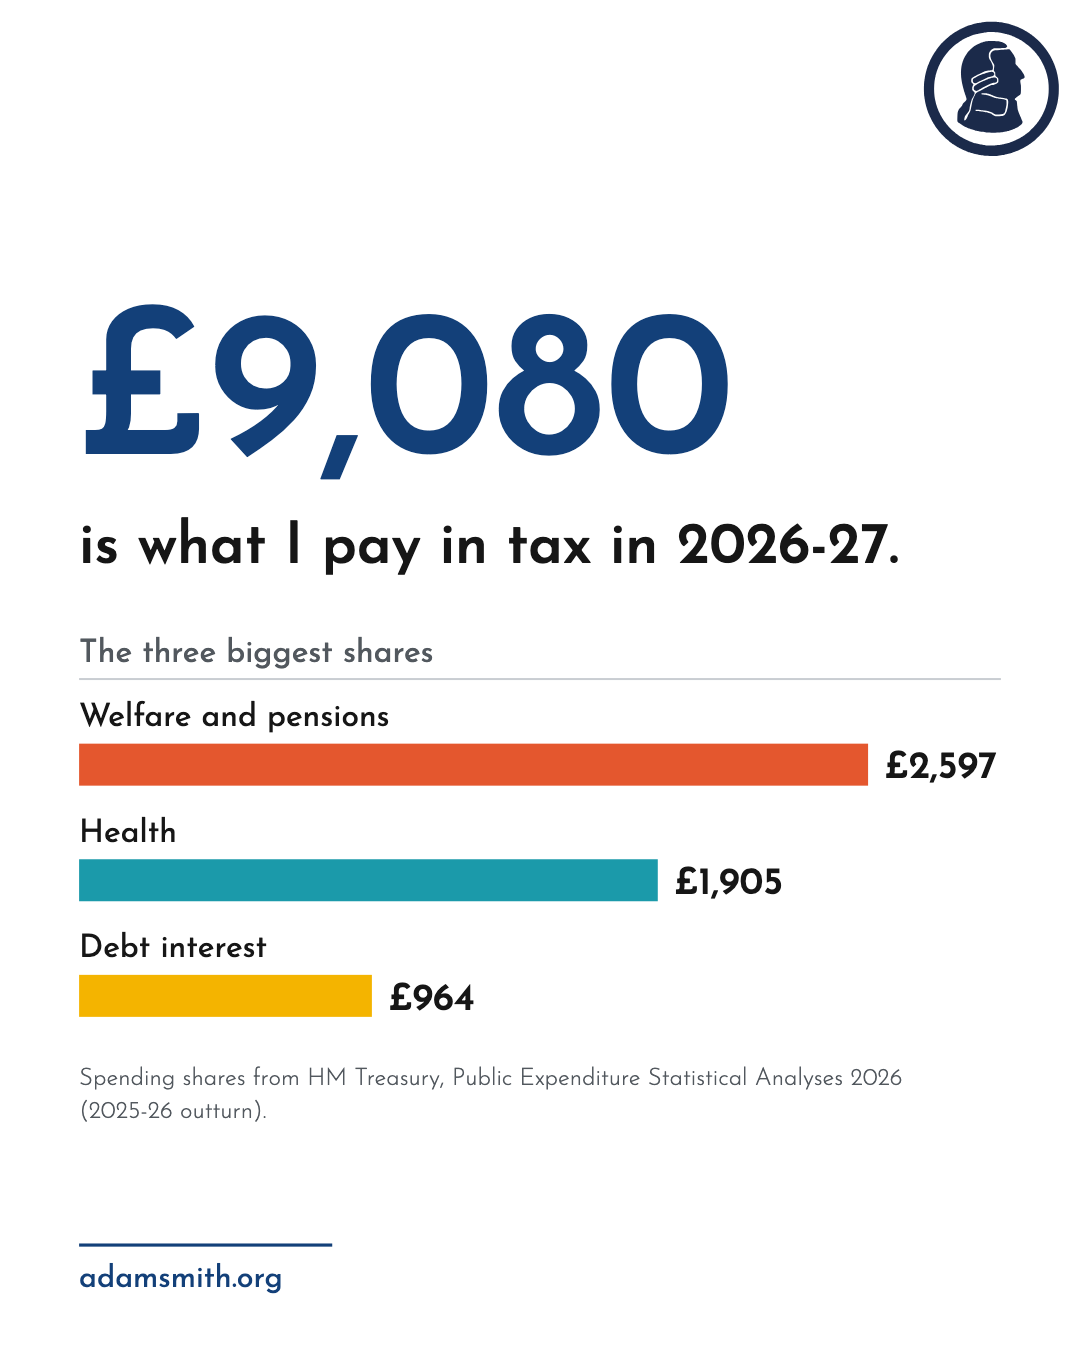
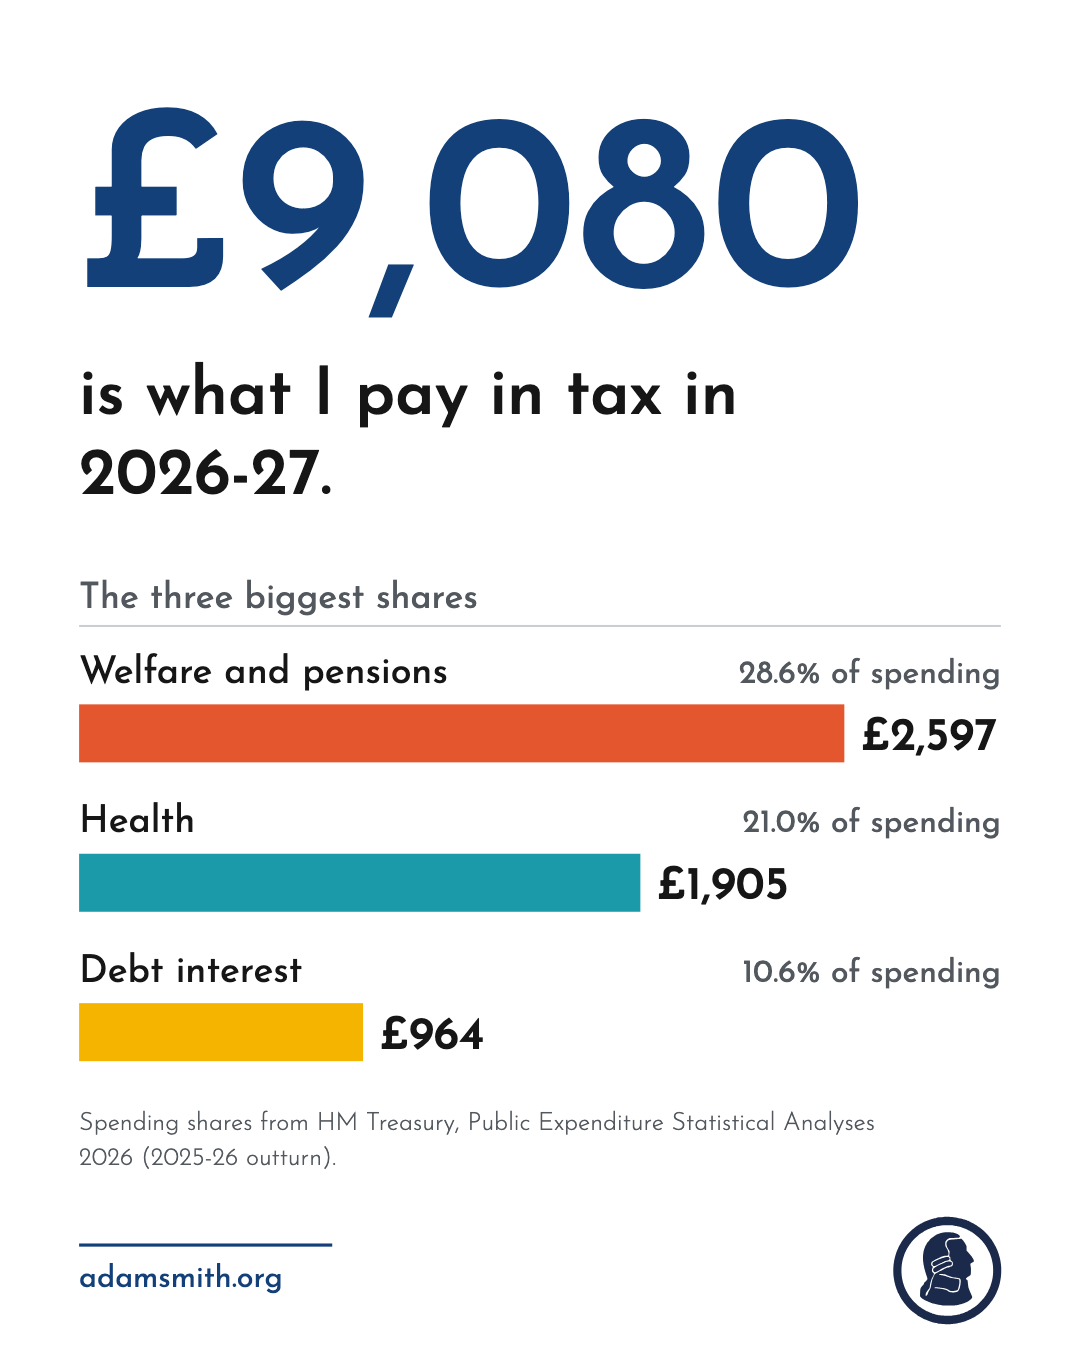
Share image: shares of total spending; mark moved to the footer
Each of the three bars now shows that area's share of all spending (for
example "28.6% of spending"). The roundel moves from the top right to the
bottom-right footer, at 10% of width, so the total starts at the top margin
and the headline, names, bars and amounts are all larger. Sizes step down
together if the content would come within 40px of the footer. The browser
test checks the percentages against the data and the mark's position, size
and clearance.

diff --git a/src/ui/share.js b/src/ui/share.js
@@ -1,14 +1,15 @@
 // Share image, 1080 × 1350 (4:5), on a white ground.
 //
-// Layout follows the ASI Design System's Stat Card, as fractions of canvas width (2048
-// reference): mark top-right at 12.5% of width with a 2% margin, 150px margins, the total as
-// the numeral, and the footer rule (480 × 6) with adamsmith.org anchored 202px from the
-// bottom. At ASI's request the card is white rather than blue, so the numeral and footer are
-// ASI blue, the mark is the navy roundel (the system's version for light grounds), and the
-// three largest shares are a bar chart in the same colours as the pie chart. The categories
-// and colours come from the data; none is hardcoded.
+// Based on the ASI Design System's Stat Card, as fractions of canvas width (2048 reference):
+// 150px margins, the total as the numeral, and the footer rule (480 × 6) with adamsmith.org
+// anchored 202px from the bottom. At ASI's request the card is white rather than blue (so the
+// numeral and footer are ASI blue and the mark is the navy roundel, the system's version for
+// light grounds), the mark sits in the footer at the bottom right (10% of width, above the
+// system's 8% minimum) to give the content more room, and the three largest shares are a bar
+// chart in the pie chart's colours with each one's share of all spending. The categories,
+// colours and shares come from the data; none is hardcoded.
 
-import { gbp } from './format.js?v=b0d6b5eba7';
+import { gbp } from './format.js?v=b74c5c7d9a';
 
 const W = 1080;
 const H = 1350;
@@ -35,7 +36,7 @@ export function shareContent(totalTax, taxYear, allocated, spendingMeta) {
     stat: gbp(totalTax),
     headline: `is what I pay in tax in ${taxYear}.`,
     chartTitle: 'The three biggest shares',
-    bars: top.map((c) => ({ name: c.name, amount: gbp(c.yours), value: c.yours, colour: c.colour || BLUE })),
+    bars: top.map((c) => ({ name: c.name, amount: gbp(c.yours), percent: `${(c.share * 100).toFixed(1)}% of spending`, value: c.yours, colour: c.colour || BLUE })),
     source: `Spending shares from HM Treasury, ${spendingMeta.title} (${spendingMeta.fiscalYear} outturn).`,
   };
 }
@@ -69,45 +70,43 @@ export async function drawShareCard(canvas, content, logoSrc) {
   ctx.textBaseline = 'alphabetic';
   ctx.textAlign = 'left';
 
-  // Mark, top right. The SVG carries ~3% padding, so the box is diameter / 0.94.
-  const visible = 0.125 * W;
-  const box = visible / 0.94;
-  const inset = 0.02 * W - (box - visible) / 2;
-  ctx.drawImage(logo, W - inset - box, inset, box, box);
-
-  // Content box: 150 left/right, from 365 down to 241 above the bottom (@2048)
+  // Content box: 150 left/right, from the top margin down to 40px above the footer zone
+  // (241 above the bottom @2048), which keeps clear of the rule and the mark beside it.
   const left = 150 * u;
   const width = W - 2 * left;
-  const boxTop = 365 * u;
-  const boxBottom = H - 241 * u;
+  const boxTop = 150 * u;
+  const boxBottom = H - 241 * u - 40;
 
-  // Sizes
-  const root = 58; // headline
-  ctx.font = `600 100px ${FONT}`;
-  const statSize = Math.min(3.6 * root, (width / ctx.measureText(content.stat).width) * 100);
-  const headLines = wrap(ctx, content.headline, `600 ${root}px ${FONT}`, width);
-  const titleSize = 32;
-  const nameSize = 32;
-  const amountSize = 38;
-  const barH = 42;
-  const srcSize = 24;
-  const srcLines = wrap(ctx, content.source, `300 ${srcSize}px ${FONT}`, width * 0.9);
-
-  // Each bar row: name, then the bar with its amount at the end
-  const rowH = nameSize * 1.3 + 8 + barH;
-  const rowGap = 24;
-  const heights = {
-    stat: statSize * 0.95,
-    gap1: 22,
-    head: headLines.length * root * 1.22,
-    gap2: 52,
-    title: titleSize * 1.3,
-    gap3: 22,
-    bars: content.bars.length * rowH + (content.bars.length - 1) * rowGap,
-    gap4: 44,
-    src: srcLines.length * srcSize * 1.4,
-  };
-  const total = Object.values(heights).reduce((a, b) => a + b, 0);
+  // Sizes, all in step with the headline. Start large and step down until everything fits.
+  let k = 1;
+  let z;
+  for (;; k -= 0.03) {
+    const root = 66 * k;
+    ctx.font = `600 100px ${FONT}`;
+    const statSize = Math.min(3.8 * root, (width / ctx.measureText(content.stat).width) * 100);
+    z = {
+      root, statSize,
+      headLines: wrap(ctx, content.headline, `600 ${root}px ${FONT}`, width),
+      titleSize: 36 * k, nameSize: 38 * k, percentSize: 32 * k, amountSize: 46 * k, barH: 58 * k, srcSize: 25 * Math.max(k, 0.85),
+    };
+    z.srcLines = wrap(ctx, content.source, `300 ${z.srcSize}px ${FONT}`, width * 0.9);
+    z.rowH = z.nameSize * 1.3 + 10 * k + z.barH;
+    z.rowGap = 32 * k;
+    z.heights = {
+      stat: statSize * 0.95,
+      gap1: 26 * k,
+      head: z.headLines.length * root * 1.22,
+      gap2: 60 * k,
+      title: z.titleSize * 1.3,
+      gap3: 26 * k,
+      bars: content.bars.length * z.rowH + (content.bars.length - 1) * z.rowGap,
+      gap4: 44 * k,
+      src: z.srcLines.length * z.srcSize * 1.4,
+    };
+    z.total = Object.values(z.heights).reduce((a, b) => a + b, 0);
+    if (z.total <= boxBottom - boxTop || k < 0.6) break;
+  }
+  const { root, statSize, headLines, titleSize, nameSize, percentSize, amountSize, barH, srcSize, srcLines, rowH, rowGap, heights, total } = z;
   let y = boxTop + Math.max(0, (boxBottom - boxTop - total) / 2);
 
   // Numeral
@@ -141,7 +140,12 @@ export async function drawShareCard(canvas, content, logoSrc) {
     ctx.fillStyle = INK;
     ctx.font = `400 ${nameSize}px ${FONT}`;
     ctx.fillText(b.name, left, y + nameSize);
-    const barY = y + nameSize * 1.3 + 8;
+    ctx.fillStyle = GREY;
+    ctx.font = `400 ${percentSize}px ${FONT}`;
+    ctx.textAlign = 'right';
+    ctx.fillText(b.percent, left + width, y + nameSize);
+    ctx.textAlign = 'left';
+    const barY = y + nameSize * 1.3 + 10;
     const barW = Math.max(6, (b.value / maxValue) * maxBar);
     ctx.fillStyle = b.colour;
     ctx.fillRect(left, barY, barW, barH);
@@ -165,7 +169,17 @@ export async function drawShareCard(canvas, content, logoSrc) {
   const footSize = 58 * u;
   ctx.font = `400 ${footSize}px ${FONT}`;
   ctx.fillText('adamsmith.org', left, ruleTop + 6 * u + 22 * u + footSize * 0.95);
-  return { canvas, bars: placed, contentBottom: y, footerTop: ruleTop };
+
+  // Mark, bottom right, centred on the footer. The SVG carries ~3% padding, so the box is
+  // drawn at diameter / 0.94 and the visible mark lines up with the right margin.
+  const visible = 0.1 * W;
+  const box = visible / 0.94;
+  const footerMid = ruleTop + (6 * u + 22 * u + footSize * 1.3) / 2;
+  const logoX = W - left - visible - (box - visible) / 2;
+  const logoY = footerMid - box / 2;
+  ctx.drawImage(logo, logoX, logoY, box, box);
+  const mark = { x: logoX + (box - visible) / 2, y: logoY + (box - visible) / 2, size: visible };
+  return { canvas, bars: placed, contentBottom: y, footerTop: ruleTop, mark };
 }
 
 export async function downloadShareCard(content, logoSrc, filename) {

diff --git a/tests/e2e/browser.test.js b/tests/e2e/browser.test.js
@@ -311,7 +311,7 @@ test('help buttons are round with a centred question mark', async () => {
   await page.close();
 });
 
-test('share image: white card, top three shares as bars in the pie chart colours, clear of the footer', async () => {
+test('share image: white card, top three shares as bars in the pie chart colours with their share of spending, mark in the footer', async () => {
   const { page } = await open();
   await page.fill('#empInc', '72,000');
   const r = await page.evaluate(async () => {
@@ -328,14 +328,21 @@ test('share image: white card, top three shares as bars in the pie chart colours
       background: [hex(5, 5), hex(540, 1340), hex(5, 700)],
       bars: out.bars.map((b) => ({ want: b.colour.toUpperCase(), got: hex(b.x + b.w / 2, b.y + b.h / 2), w: b.w })),
       names: content.bars.map((b) => b.name),
-      contentBottom: out.contentBottom, footerTop: out.footerTop,
+      percents: content.bars.map((b) => b.percent),
+      contentBottom: out.contentBottom, footerTop: out.footerTop, mark: out.mark,
     };
   });
   assert.deepEqual(r.background, ['#FFFFFF', '#FFFFFF', '#FFFFFF']);
   assert.deepEqual(r.names, spending.categories.slice(0, 3).map((c) => c.name));
   for (const b of r.bars) assert.equal(b.got, b.want);
   assert.ok(r.bars[0].w > r.bars[1].w && r.bars[1].w > r.bars[2].w, 'bars ranked by size');
+  assert.deepEqual(r.percents, spending.categories.slice(0, 3).map((c) => `${(c.amount / spending.meta.tes * 100).toFixed(1)}% of spending`));
   assert.ok(r.contentBottom < r.footerTop - 40, `content ends at ${r.contentBottom}, footer at ${r.footerTop}`);
+  // The mark sits bottom right, beside the footer, at least 8% of the width, clear of the content
+  assert.ok(r.mark.x > 1080 / 2 && r.mark.y > r.footerTop - r.mark.size, 'mark in the bottom-right footer');
+  assert.ok(r.mark.size >= 0.08 * 1080);
+  assert.ok(r.mark.x + r.mark.size <= 1080 - 79 + 1 && r.mark.y + r.mark.size <= 1350);
+  assert.ok(r.contentBottom < r.mark.y, 'content ends above the mark');
   await page.close();
 });
 

diff --git a/src/app.js b/src/app.js
@@ -1,13 +1,13 @@
 // ASI tax calculator: reads the form, runs the engine for the chosen tax year (and the other
 // year, for the comparison line), and renders the results and the spending split.
 
-import { computeTax } from './engine/computeTax.js?v=b0d6b5eba7';
-import { loadSpending, allocate } from './ui/spending-data.js?v=b0d6b5eba7';
-import { buildPie } from './ui/pie.js?v=b0d6b5eba7';
-import { renderSummary, renderDetail } from './ui/breakdown.js?v=b0d6b5eba7';
-import { shareContent, downloadShareCard } from './ui/share.js?v=b0d6b5eba7';
-import { startAutoResize } from './ui/embed.js?v=b0d6b5eba7';
-import { gbp, percent, parseMoney, billions } from './ui/format.js?v=b0d6b5eba7';
+import { computeTax } from './engine/computeTax.js?v=b74c5c7d9a';
+import { loadSpending, allocate } from './ui/spending-data.js?v=b74c5c7d9a';
+import { buildPie } from './ui/pie.js?v=b74c5c7d9a';
+import { renderSummary, renderDetail } from './ui/breakdown.js?v=b74c5c7d9a';
+import { shareContent, downloadShareCard } from './ui/share.js?v=b74c5c7d9a';
+import { startAutoResize } from './ui/embed.js?v=b74c5c7d9a';
+import { gbp, percent, parseMoney, billions } from './ui/format.js?v=b74c5c7d9a';
 
 const YEARS = ['2026-27', '2027-28'];
 const DEFAULT_YEAR = '2026-27';

diff --git a/index.html b/index.html
@@ -3,13 +3,13 @@
 <head>
 <meta charset="utf-8">
 <meta name="viewport" content="width=device-width, initial-scale=1">
-<meta name="asi-version" content="b0d6b5eba7">
+<meta name="asi-version" content="b74c5c7d9a">
 <title>The 2026 Tax Calculator | Adam Smith Institute</title>
 <meta name="description" content="Work out your income tax, National Insurance and other direct taxes for 2026-27 and 2027-28, and see what they pay for.">
 <link rel="preload" href="assets/fonts/JosefinSans.ttf" as="font" type="font/ttf" crossorigin>
 <link rel="preload" href="assets/fonts/PTSerif-Regular.ttf" as="font" type="font/ttf" crossorigin>
-<link rel="stylesheet" href="src/styles.css?v=b0d6b5eba7">
-<script type="module" src="src/app.js?v=b0d6b5eba7" onerror="document.getElementById('load-error').hidden = false"></script>
+<link rel="stylesheet" href="src/styles.css?v=b74c5c7d9a">
+<script type="module" src="src/app.js?v=b74c5c7d9a" onerror="document.getElementById('load-error').hidden = false"></script>
 </head>
 <body>
 <div class="page">

diff --git a/src/ui/pie.js b/src/ui/pie.js
@@ -9,8 +9,8 @@
 // seamless); going back runs the same in reverse. Users who ask for reduced motion get the end
 // state at once.
 
-import { allocate } from './spending-data.js?v=b0d6b5eba7';
-import { gbp, penceInPound, billions } from './format.js?v=b0d6b5eba7';
+import { allocate } from './spending-data.js?v=b74c5c7d9a';
+import { gbp, penceInPound, billions } from './format.js?v=b74c5c7d9a';
 
 const SVG = 'http://www.w3.org/2000/svg';
 const SIZE = 320;

diff --git a/src/ui/spending-data.js b/src/ui/spending-data.js
@@ -1,7 +1,7 @@
 // Loads data/spending.json (same origin, refreshed by the weekly pipeline). If that fails,
 // falls back to the snapshot bundled with the code at the last build.
 
-import fallback from '../spending/fallback.js?v=b0d6b5eba7';
+import fallback from '../spending/fallback.js?v=b74c5c7d9a';
 
 export async function loadSpending(url = 'data/spending.json') {
   try {

diff --git a/src/ui/breakdown.js b/src/ui/breakdown.js
@@ -1,6 +1,6 @@
 // The per-tax summary (lines that add up to the headline) and the detailed working table.
 
-import { gbp, gbpPence, rate } from './format.js?v=b0d6b5eba7';
+import { gbp, gbpPence, rate } from './format.js?v=b74c5c7d9a';
 
 const COMPONENT = {
   nonSavings: 'Earnings and other income',

diff --git a/DESIGN-EXTENSION.md b/DESIGN-EXTENSION.md
@@ -161,14 +161,24 @@ height changes (see `EMBED.md`).
 
 ## Share image
 
-A 1080 × 1350 (4:5) card, laid out on the Design System's Stat Card grid: the mark top-right
-at 12.5% of width with a 2% margin, 150px margins, and the footer rule (480 × 6 at 2048 scale)
-with adamsmith.org anchored 202px from the bottom.
+A 1080 × 1350 (4:5) card, based on the Design System's Stat Card: 150px margins (at 2048
+scale), the total as the numeral, and the footer rule (480 × 6) with adamsmith.org anchored
+202px from the bottom.
 
-**Departure, at ASI's request:** the card is **white**, not ASI blue. So the total is set in
-ASI blue (Josefin 600), the headline in ink, the mark is the navy roundel (the system's
-version for light grounds), and the footer rule and URL are blue. The three largest shares
-are a **horizontal bar chart in the pie chart's category colours**: the name above each bar,
-the bar scaled to the largest, and the amount just past its end. The categories, colours
-and order come from the data. A grey source line sits below. The card waits for
-`document.fonts.ready` before drawing, and a test checks it never runs into the footer.
+**Departures, at ASI's request:**
+
+- The card is **white**, not ASI blue. The total is in ASI blue (Josefin 600), the headline
+  in ink, and the footer rule and URL are blue.
+- **The mark sits in the footer, bottom right**, centred on the footer line and aligned to
+  the right margin, at 10% of width (above the system's 8% minimum). It is the navy roundel,
+  the system's version for light grounds. Moving it out of the top-right corner lets the
+  total start at the top margin and everything else be larger.
+- The three largest shares are a **horizontal bar chart in the pie chart's category
+  colours**: the name above each bar, its **share of all spending** right-aligned beside the
+  name in grey, the bar scaled to the largest, and the amount just past its end.
+
+Everything scales with the headline size, which starts large and steps down until the
+content fits above the footer with 40px to spare. The categories, colours, shares and order
+come from the data. The card waits for `document.fonts.ready` before drawing. A test reads
+its pixels to check the white ground, the bar colours and the clearance around the footer
+and mark.
